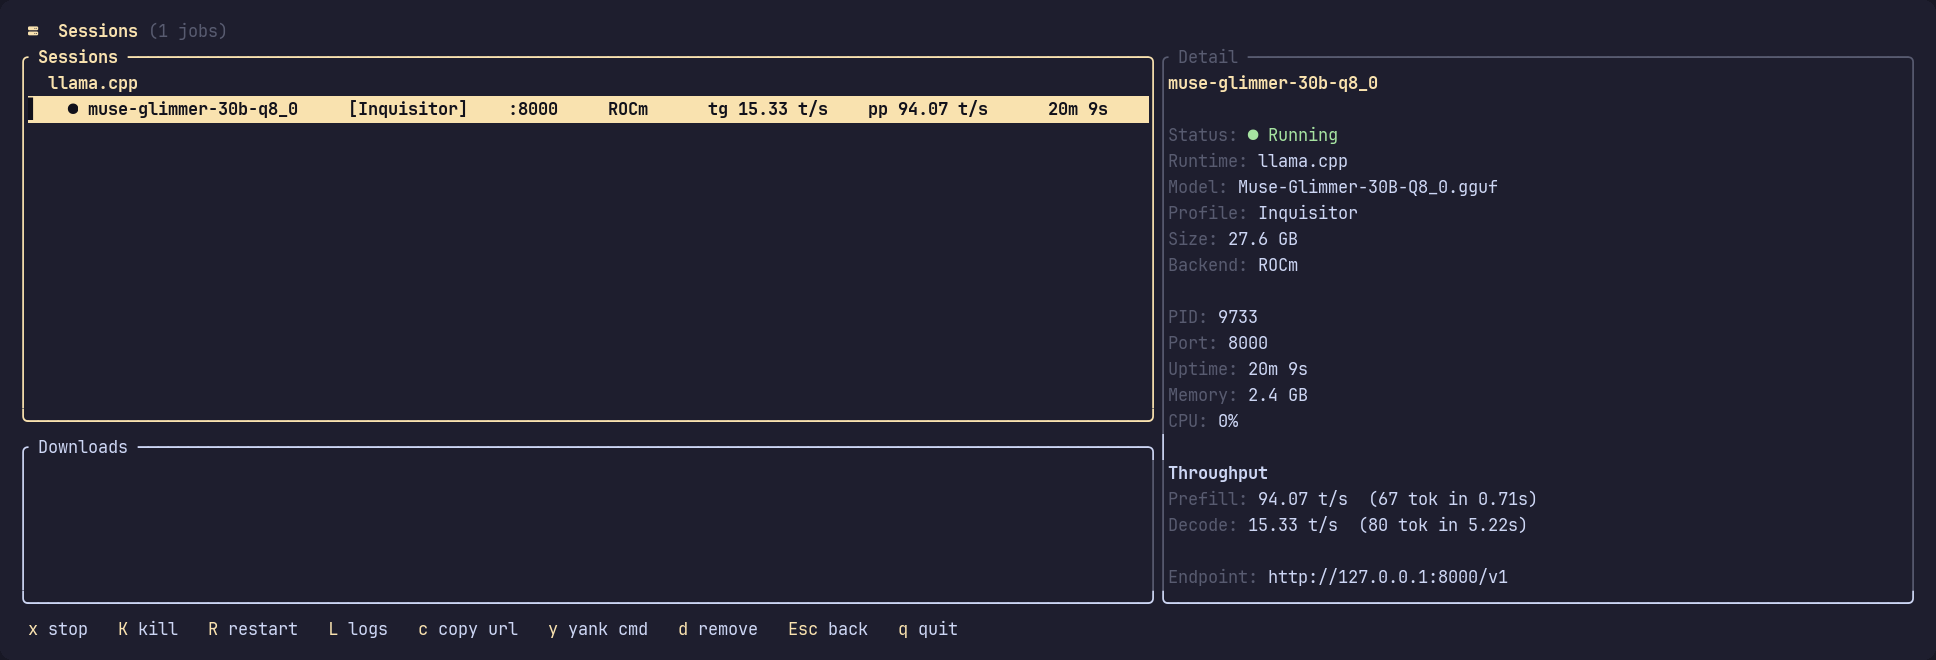
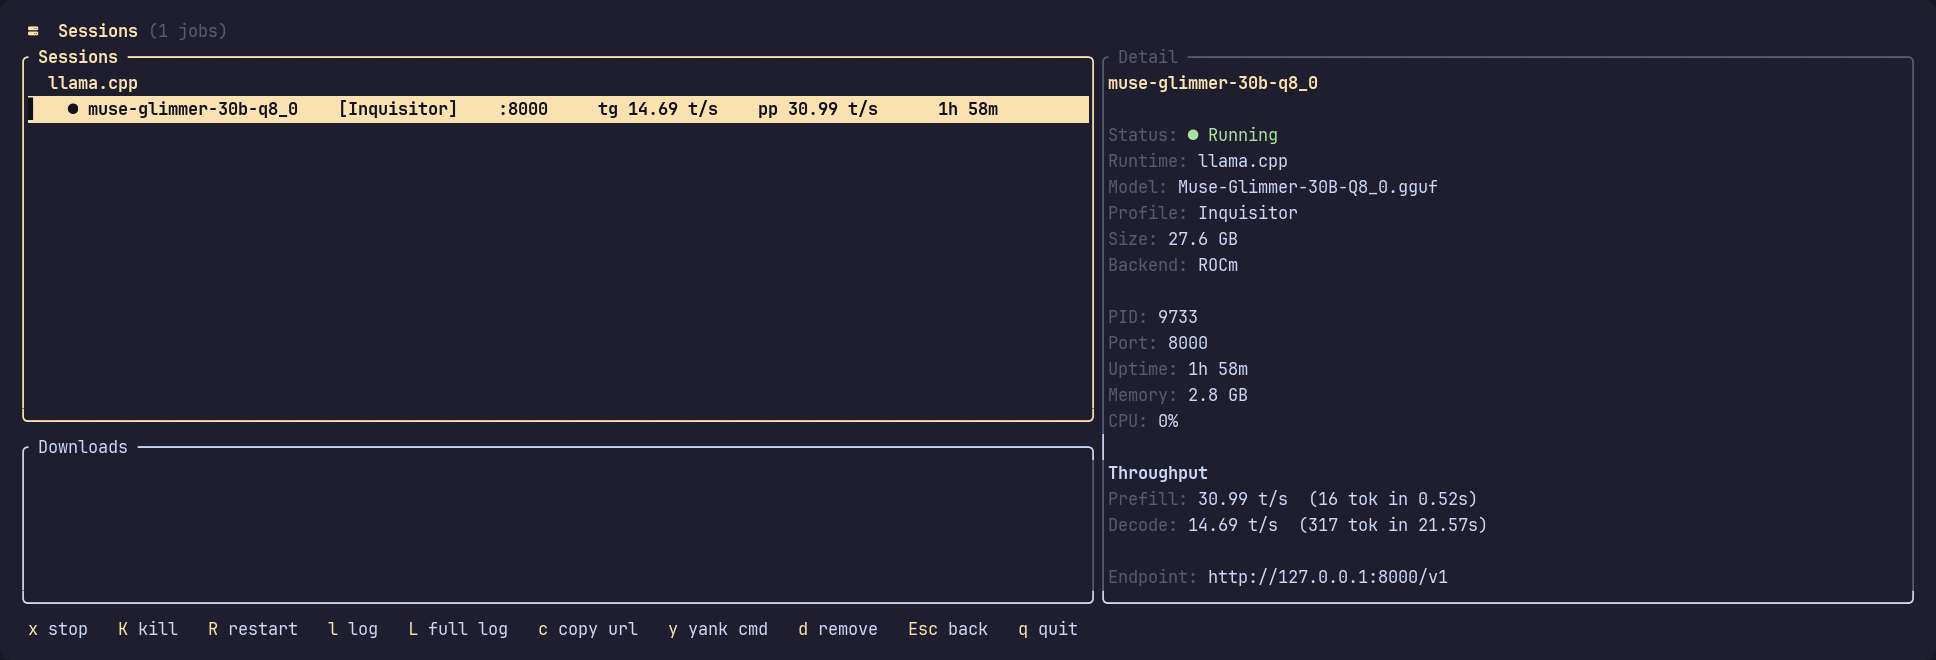
Give the name column what the names need, and nothing over
The name asked for MIN_NAME and then absorbed whatever the columns left,
which failed at both ends. A 106-column pane cut a twenty-one character
name while keeping a backend that never changes; a 200-column one put
sixty blank columns between the name and the profile, leaving the row
reading as two unrelated halves.

It now asks for the widest name in the pane, between MIN_NAME and a new
MAX_NAME, and columns are dropped until that fits — so a name is cut
only when it outgrows the cap or the pane is genuinely small, and the
columns follow the name directly however wide the pane gets. What is
left over is bounded by the column that was dropped to make room: were
the slack enough to keep it, it would not have been dropped.

The plan is computed once for the list rather than per row, since rows
that sized their own name columns would stop lining up. Re-shot the
README's session pane, which had a truncated name and a footer from
before the log pane.

diff --git a/src/ui/mod.rs b/src/ui/mod.rs
@@ -638,6 +638,12 @@ const MISSING: &str = "—";
 const COL_GAP: usize = 4;
 /// Below this much room for the model name, a column is not worth its space.
 const MIN_NAME: usize = 12;
+/// The widest the name column grows to.
+///
+/// Names are what the rows are about, so they get columns dropped for them —
+/// but only up to here. Past it the surplus stops seating a name and starts
+/// opening a gulf between the name and everything that describes it.
+const MAX_NAME: usize = 32;
 
 /// Which column to give up first when the pane cannot hold them all.
 ///
@@ -726,11 +732,13 @@ fn rate_cell(label: &str, session: &Session, phase: Phase) -> String {
     format!("{label} {value:>RATE_FIGURE$} t/s")
 }
 
-/// One session row: status, model, then the columns that fit.
+/// How wide the name column is, and which columns follow it, in a pane of
+/// `width` holding names up to `longest` terminal columns wide.
 ///
-/// `width` is the room inside the pane's border and selection marker.
-fn session_row(session: &Session, width: usize) -> Line<'static> {
-    let order = [
+/// One answer for the whole list rather than one per row: rows that sized their
+/// own names would stop lining up, and the alignment is the point.
+fn row_plan(width: usize, longest: usize) -> (usize, Vec<Column>) {
+    const ORDER: [Column; 7] = [
         Column::Profile,
         Column::Port,
         Column::Size,
@@ -739,23 +747,32 @@ fn session_row(session: &Session, width: usize) -> Line<'static> {
         Column::Prefill,
         Column::Uptime,
     ];
-
-    // Every column, then drop by priority until the model name has room to be
-    // readable.
-    let mut cells: Vec<(Column, String)> =
-        order.iter().map(|column| (*column, column.cell(session))).collect();
-    let cost = |cells: &[(Column, String)]| -> usize {
-        cells.iter().map(|(column, _)| column.width() + COL_GAP).sum()
+    let cost = |columns: &[Column]| -> usize {
+        columns.iter().map(|column| column.width() + COL_GAP).sum()
     };
+
     let room = width.saturating_sub(2); // status glyph and its space
+    // What the names in this pane actually need, within reason: giving up a
+    // column to seat a name whole is worth it, and `MAX_NAME` is where it stops
+    // being worth it.
+    let wanted = longest.clamp(MIN_NAME, MAX_NAME);
+    let mut columns = ORDER.to_vec();
     for dropped in DROP_ORDER {
-        if room >= cost(&cells) + MIN_NAME + COL_GAP {
+        if room >= cost(&columns) + wanted + COL_GAP {
             break;
         }
-        cells.retain(|(column, _)| *column != dropped);
+        columns.retain(|column| *column != dropped);
     }
 
-    let name_width = room.saturating_sub(cost(&cells) + COL_GAP).max(1);
+    // Capped at what the names need. The leftover used to go here, which on a
+    // wide pane put sixty blank columns between the name and the profile and
+    // left the row reading as two unrelated halves.
+    let name = room.saturating_sub(cost(&columns) + COL_GAP).clamp(1, wanted.max(1));
+    (name, columns)
+}
+
+/// One session row: status, model, then the columns the pane agreed on.
+fn session_row(session: &Session, name_width: usize, columns: &[Column]) -> Line<'static> {
     let mut spans = vec![
         Span::styled(
             format!("{} ", session.status.glyph()),
@@ -763,9 +780,9 @@ fn session_row(session: &Session, width: usize) -> Line<'static> {
         ),
         Span::raw(pad_right(&truncate_right(&session.record.name, name_width), name_width)),
     ];
-    for (column, text) in cells {
+    for column in columns {
         spans.push(Span::styled(
-            format!("{}{}", " ".repeat(COL_GAP), column.pad(&text)),
+            format!("{}{}", " ".repeat(COL_GAP), column.pad(&column.cell(session))),
             Style::default().fg(Color::DarkGray),
         ));
     }
@@ -855,6 +872,8 @@ fn session_items(
     let rows = session_list_rows(sessions);
     let selected_row = selected
         .and_then(|index| rows.iter().position(|row| *row == SessionListRow::Session(index)));
+    let longest = sessions.iter().map(|session| session.record.name.width()).max().unwrap_or(0);
+    let (name_width, columns) = row_plan(width, longest);
     let indent = " ".repeat(SESSION_INDENT);
     let items = rows
         .iter()
@@ -865,7 +884,7 @@ fn session_items(
             ))),
             SessionListRow::Session(index) => {
                 let mut spans = vec![Span::raw(indent.clone())];
-                spans.extend(session_row(&sessions[*index], width).spans);
+                spans.extend(session_row(&sessions[*index], name_width, &columns).spans);
                 ListItem::new(Line::from(spans))
             }
         })
@@ -1448,9 +1467,9 @@ fn center(area: Rect, horizontal: Constraint, vertical: Constraint) -> Rect {
 #[cfg(test)]
 mod tests {
     use super::{
-        ICON_CLOUD, ICON_DIRECTORY, MIN_COLS, MIN_ROWS, compact_count, download_progress,
-        model_artifact_columns, model_icon, render_confirm, render_help, render_session_log,
-        render_too_small, session_panes, truncate_download_name, wrap_hard,
+        COL_GAP, ICON_CLOUD, ICON_DIRECTORY, MAX_NAME, MIN_COLS, MIN_ROWS, compact_count,
+        download_progress, model_artifact_columns, model_icon, render_confirm, render_help,
+        render_session_log, render_too_small, session_panes, truncate_download_name, wrap_hard,
     };
     use crate::app::Confirm;
 
@@ -1928,12 +1947,66 @@ mod tests {
         assert!(screen.contains("sort online models / switch catalog grouping"), "{screen}");
     }
 
-    fn row_text(session: &crate::session::Session, width: usize) -> String {
-        super::session_row(session, width)
-            .spans
+    /// Regression: the name column took every column the row had left over, so
+    /// a wide pane put sixty blanks between the name and the profile — and a
+    /// middling one truncated a name it had columns to spare for, because the
+    /// drop rule only ever asked for `MIN_NAME`.
+    #[test]
+    fn the_name_column_takes_what_the_names_need_and_no_more() {
+        use unicode_width::UnicodeWidthStr;
+
+        let sessions = [probe_session("muse-glimmer-30b-q8_0", true)];
+        let name = "muse-glimmer-30b-q8_0";
+
+        // Wide pane: the name is whole and the columns follow it directly,
+        // rather than after a run of padding.
+        let row = &rows_text(&sessions, 200)[0];
+        let gap = row.find("[inquisitor]").expect("the profile column") - row.find(name).unwrap();
+        assert_eq!(gap, name.width() + COL_GAP, "a gulf opened up: {row:?}");
+
+        // Middling pane: a column is given up to seat the name whole. It used
+        // to keep every column and cut the name to twenty.
+        let row = &rows_text(&sessions, 106)[0];
+        assert!(row.contains(name), "the name was cut with columns to spare: {row:?}");
+
+        // The cap holds: a name past `MAX_NAME` is truncated rather than
+        // pushing every column off the row.
+        let long = "a-very-long-model-name-that-keeps-going-and-going";
+        let row = &rows_text(&[probe_session(long, true)], 200)[0];
+        assert!(row.contains('…'), "{row:?}");
+        // In columns, not bytes: the status glyph and the ellipsis are both
+        // multibyte and neither is more than one column wide.
+        let at = row[..row.find("[inquisitor]").expect("the profile column")].width();
+        assert_eq!(at, 2 + MAX_NAME + COL_GAP, "the name column outgrew its cap: {row:?}");
+
+        // Narrow panes still shed columns, and the name still gets `MIN_NAME`.
+        let row = &rows_text(&sessions, 60)[0];
+        assert!(!row.contains("[inquisitor]"), "a narrow pane kept every column: {row:?}");
+        assert!(row.width() <= 60, "{row:?}");
+    }
+
+    /// The rows a pane of `width` draws for these sessions.
+    ///
+    /// One plan for the set, the way the list does it: rows that sized their
+    /// own name columns would not line up, which several tests here are about.
+    fn rows_text(sessions: &[crate::session::Session], width: usize) -> Vec<String> {
+        use unicode_width::UnicodeWidthStr;
+        let longest = sessions.iter().map(|session| session.record.name.width()).max().unwrap_or(0);
+        let (name_width, columns) = super::row_plan(width, longest);
+        sessions
             .iter()
-            .map(|span| span.content.to_string())
+            .map(|session| {
+                super::session_row(session, name_width, &columns)
+                    .spans
+                    .iter()
+                    .map(|span| span.content.to_string())
+                    .collect()
+            })
             .collect()
+    }
+
+    fn row_text(session: &crate::session::Session, width: usize) -> String {
+        rows_text(std::slice::from_ref(session), width).remove(0)
     }
 
     /// The point of the columns: they line up regardless of name length.
@@ -1943,10 +2016,11 @@ mod tests {
         // nothing: a session without figures must still line up with one that
         // has them, which is why no column is ever omitted.
         let width = 120;
-        let rows: Vec<String> = [("a", true), ("gpt-oss-20b-q8_0", true), ("fresh", false)]
+        let sessions: Vec<_> = [("a", true), ("gpt-oss-20b-q8_0", true), ("fresh", false)]
             .iter()
-            .map(|(name, rates)| row_text(&probe_session(name, *rates), width))
+            .map(|(name, rates)| probe_session(name, *rates))
             .collect();
+        let rows = rows_text(&sessions, width);
 
         for row in &rows {
             assert_eq!(row.chars().count(), rows[0].chars().count(), "ragged row: {row:?}");
@@ -1974,11 +2048,11 @@ mod tests {
         use unicode_width::UnicodeWidthStr;
 
         let width = 120;
-        let plain = row_text(&probe_session("gpt-oss-20b-q8_0", true), width);
         let mut session = probe_session("通義千問-32B-指令", true);
         // Ten characters, and twice that many columns.
         session.record.profile = "深度思考模式一二三四".into();
-        let wide = row_text(&session, width);
+        let rows = rows_text(&[probe_session("gpt-oss-20b-q8_0", true), session], width);
+        let (plain, wide) = (rows[0].clone(), rows[1].clone());
 
         assert_eq!(wide.width(), plain.width(), "the wide row draws a different width");
         // The profile was cut down to its field rather than allowed to overrun.

diff --git a/docs/decisions.md b/docs/decisions.md
@@ -882,6 +882,18 @@ just under a hundred, which `{:.2}` rounds up to `100.00`, and a prefill rate
 past five digits, which small models reach — and either shifted every column
 after it.
 
+The name column takes what the names in the pane need — the widest of them,
+between `MIN_NAME` and `MAX_NAME` — and columns are dropped until it fits, so a
+name is cut only when it is longer than the cap or the pane is genuinely tiny.
+It used to ask for `MIN_NAME` and then absorb everything left over, which failed
+at both ends: a 106-column pane cut a twenty-one character name while keeping a
+backend that never changes, and a 200-column pane put sixty blanks between the
+name and the profile, leaving the row reading as two unrelated halves. One plan
+is computed for the whole list rather than per row, because rows that sized
+their own name columns would stop lining up. What the drop leaves over is
+bounded by the column it dropped: if the slack were enough to keep that column,
+it would not have been dropped.
+
 The size and compute backend shown per session are recorded at launch
 (`SessionRecord::size_bytes` and `device`), because neither can be recovered
 afterwards: the backend appears in no endpoint and, when `device` is left at
